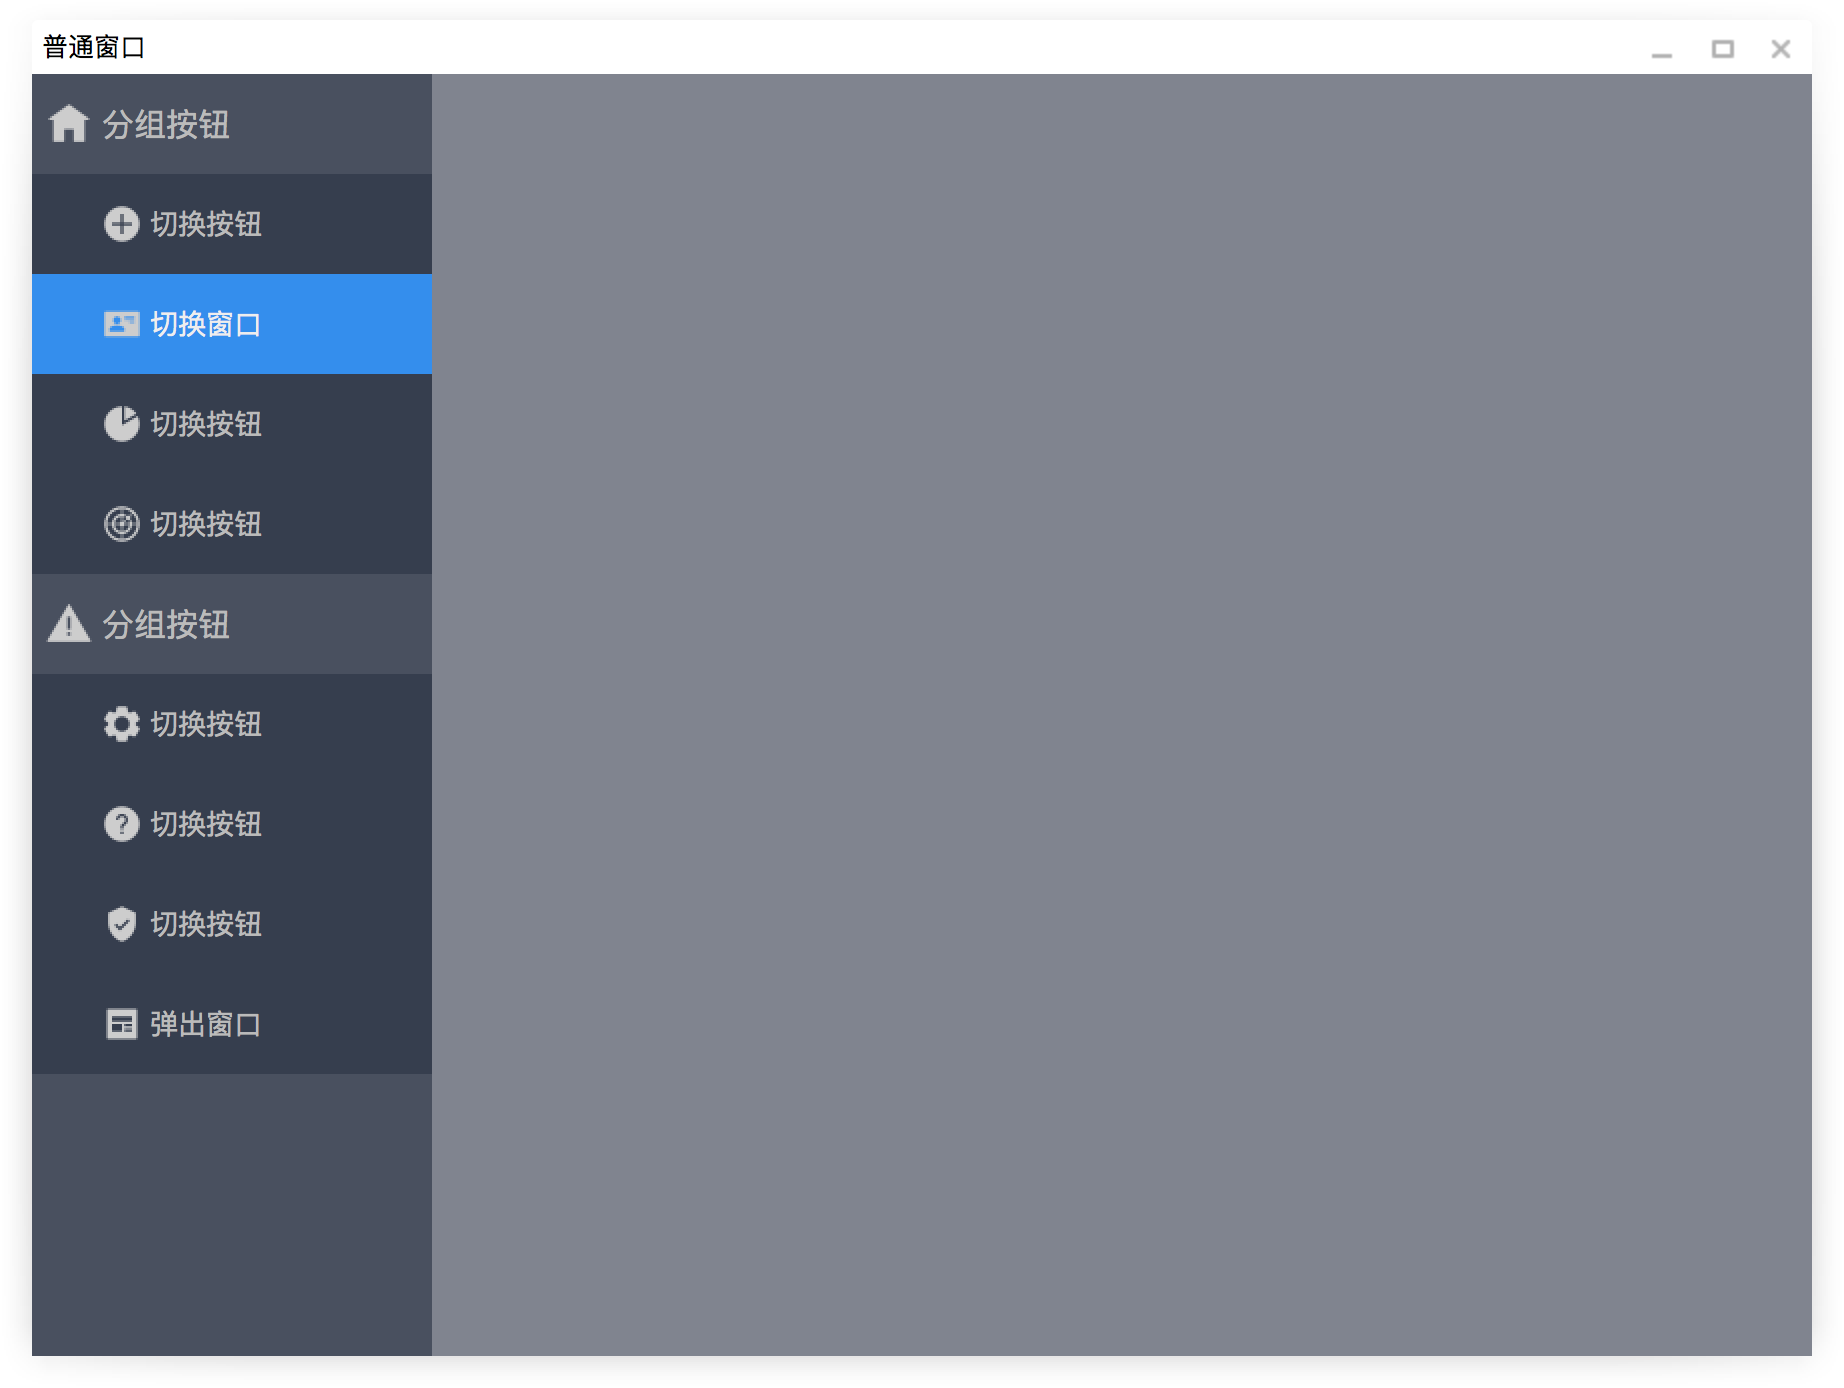
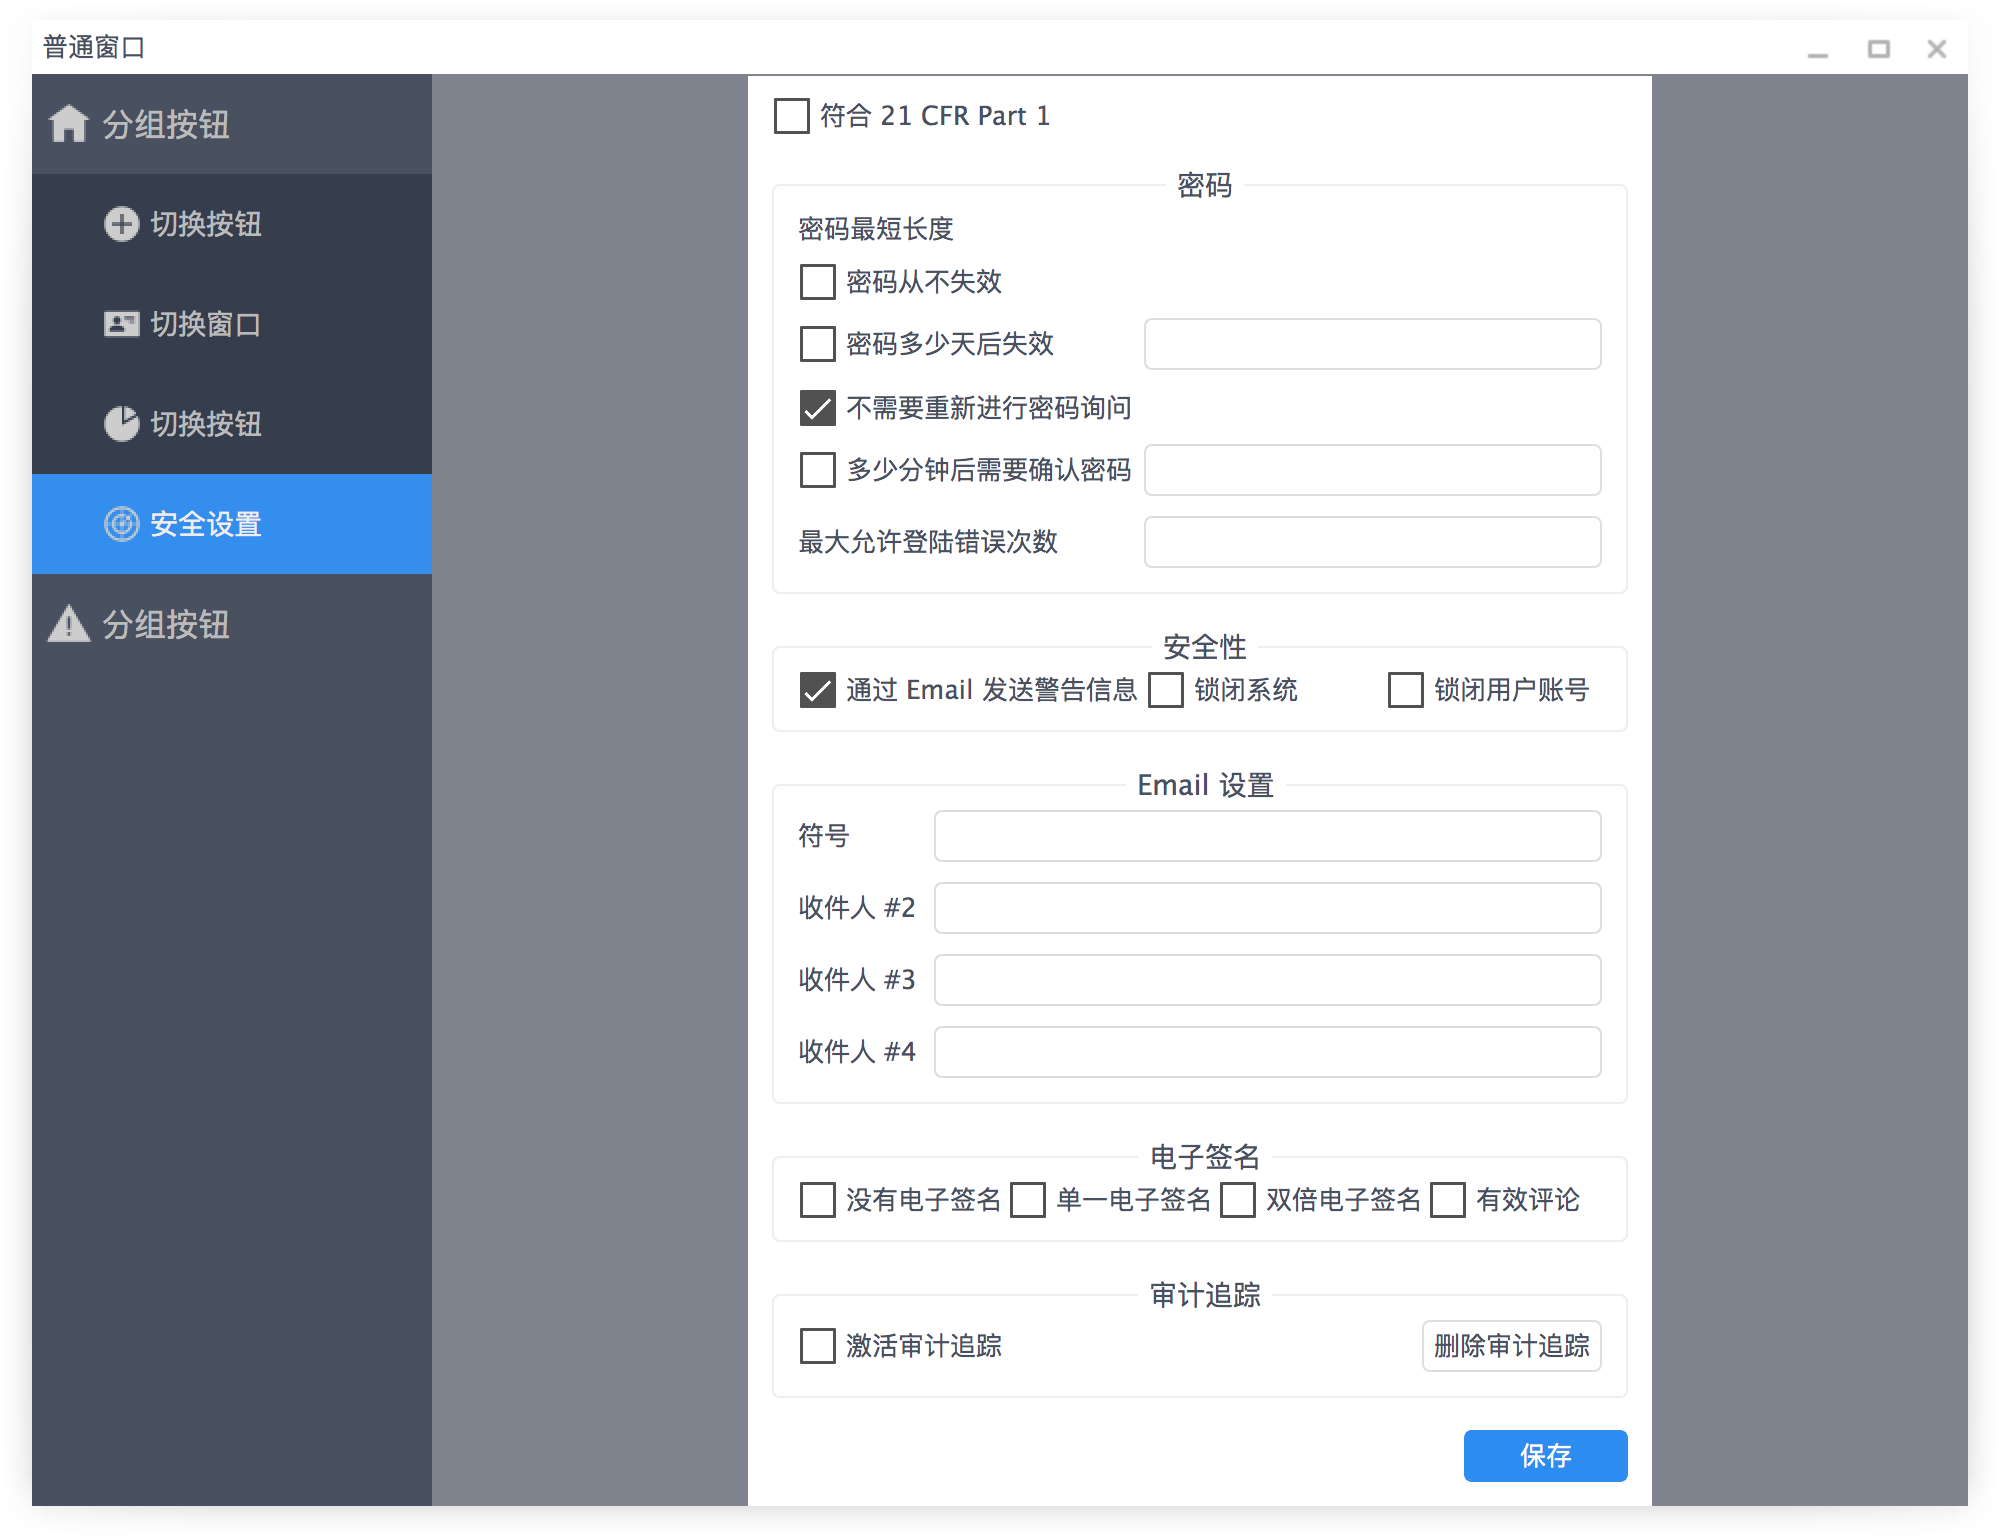
更新效果图片

diff --git a/template-qt/gui/CentralWidget.cpp b/template-qt/gui/CentralWidget.cpp
@@ -163,7 +163,7 @@ void CentralWidget::createWidgetInContentStackedWidget(QAbstractButton *button) 
     } else if (button == ui->itemButton4) {
         QWidget *w = new SettingWidget();
         d->buttonWidgetHash.insert(ui->itemButton4, w);
-        UiUtil::addWidgetIntoStackedWidget(w, ui->contentStackedWidget, true, true, false, false);
+        UiUtil::addWidgetIntoStackedWidget(w, ui->contentStackedWidget, false, false, false, false);
     }
 }
 
